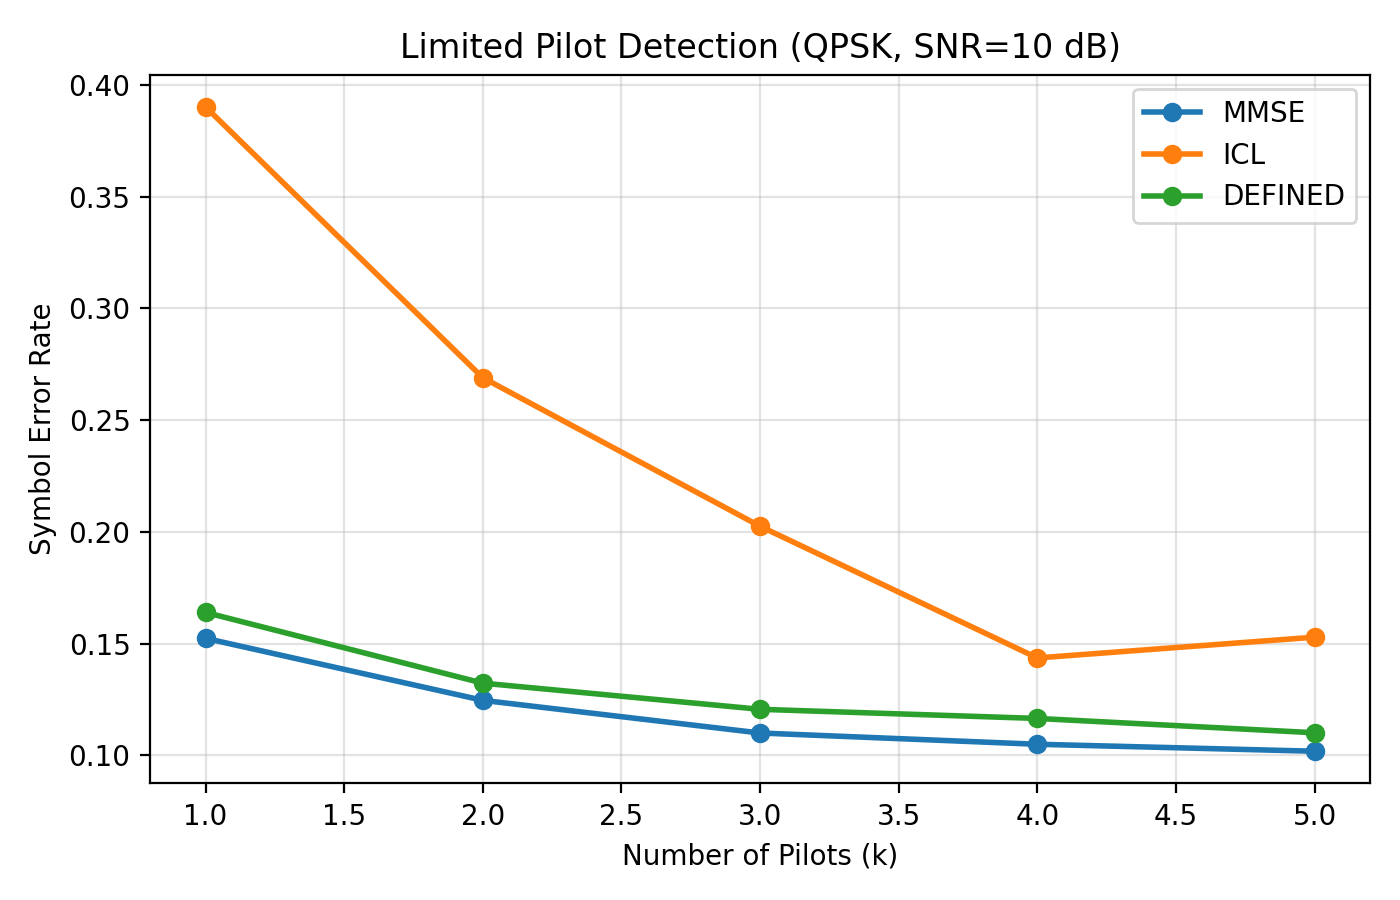
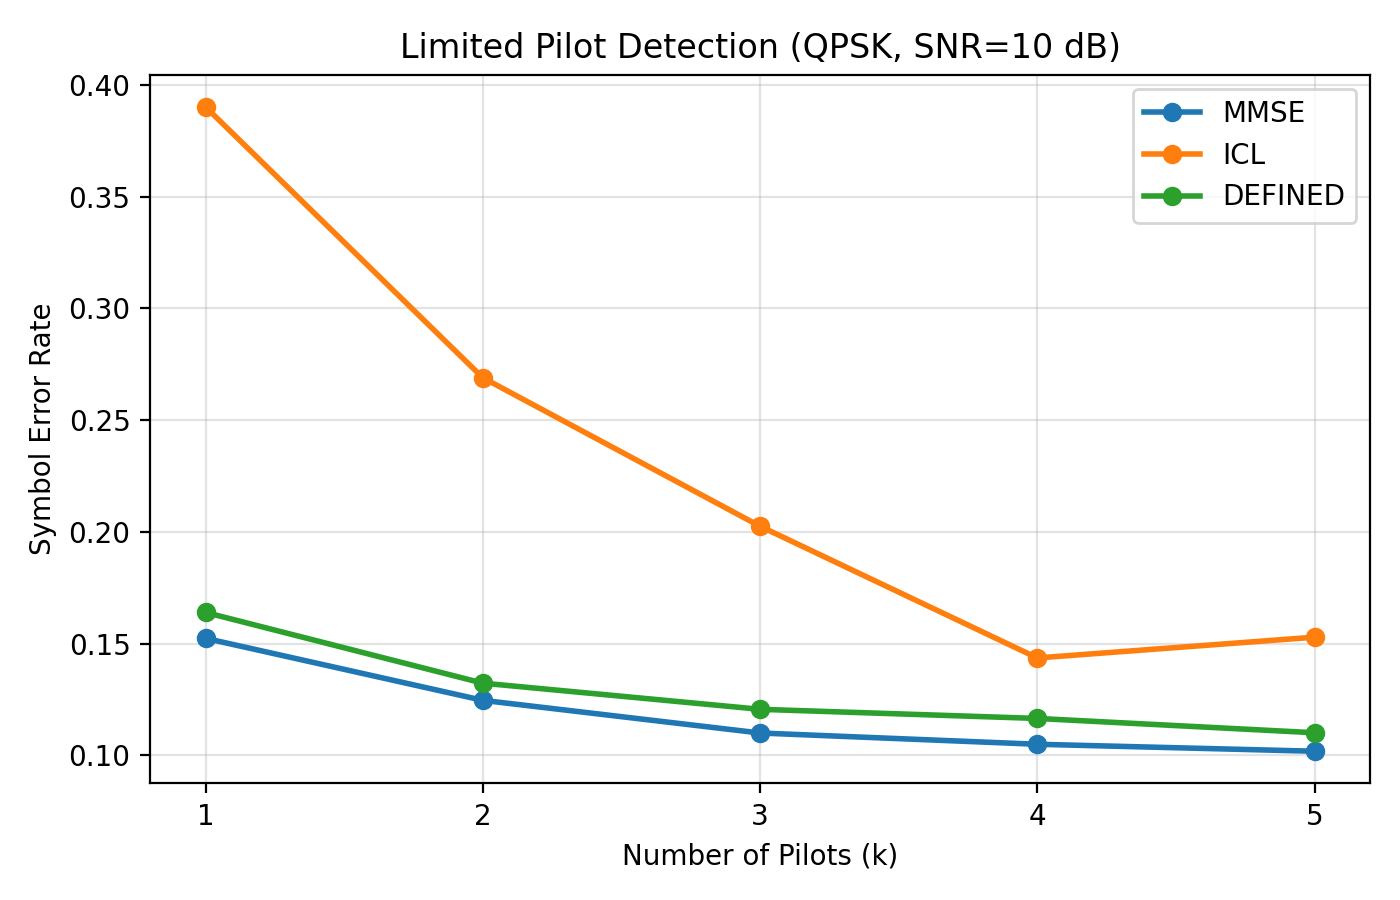
updated experiments for graphs and training script

diff --git a/experiments.py b/experiments.py
@@ -1,6 +1,7 @@
 from pathlib import Path
 
 import matplotlib.pyplot as plt
+from matplotlib.ticker import MaxNLocator
 import numpy as np
 import torch
 
@@ -124,6 +125,14 @@ def save_line_plot(x_values, series, xlabel, ylabel, title, output_name):
 
     for label, y_values in series.items():
         plt.plot(x_values, y_values, marker="o", linewidth=2, label=label)
+
+    ax = plt.gca()
+
+    integer_axis_keywords = ["Pilot", "pilot", "Context", "context"]
+
+    if any(keyword in xlabel for keyword in integer_axis_keywords):
+        ax.xaxis.set_major_locator(MaxNLocator(integer=True))
+        ax.set_xticks(x_values)
 
     plt.xlabel(xlabel)
     plt.ylabel(ylabel)
@@ -276,174 +285,6 @@ def experiment_snr_sensitivity(device):
     )
 
 
-def mmse_ser_by_position(modulation_name, num_pilots, snr_db):
-    rng = np.random.default_rng(TEST_SEED)
-    constellation = get_constellation(modulation_name)
-
-    errors = np.zeros(BLOCK_LENGTH, dtype=np.float64)
-
-    for _ in range(TEST_BLOCKS):
-        block = generate_block(
-            block_length=BLOCK_LENGTH,
-            modulation_name=modulation_name,
-            snr_db=snr_db,
-            r=rng,
-        )
-
-        x = block["transmitted_symbols"]
-        y = block["received_symbols"]
-        labels = block["transmitted_labels"]
-        noise_variance = block["noise_variance"]
-
-        h_hat = mmse_estimate(
-            x[:num_pilots],
-            y[:num_pilots],
-            noise_variance,
-        )
-
-        for t in range(num_pilots, BLOCK_LENGTH):
-            pred_label = detect_symbol(y[t], h_hat, constellation)
-            errors[t] += pred_label != labels[t]
-
-    return errors[num_pilots:] / TEST_BLOCKS
-
-
-def icl_ser_by_position(model, dataloader, num_pilots, device):
-    model.eval()
-
-    position_errors = None
-    total_blocks = 0
-
-    with torch.no_grad():
-        for y_batch, x_batch, labels_batch in dataloader:
-            y_batch = y_batch.to(device)
-            x_batch = x_batch.to(device)
-            labels_batch = labels_batch.to(device)
-
-            batch_size, block_length, _ = x_batch.shape
-
-            if position_errors is None:
-                position_errors = torch.zeros(block_length, device=device)
-
-            for t in range(num_pilots, block_length):
-                y_prompt = torch.zeros_like(y_batch)
-                x_prompt = torch.zeros_like(x_batch)
-
-                y_prompt[:, :num_pilots, :] = y_batch[:, :num_pilots, :]
-                x_prompt[:, :num_pilots, :] = x_batch[:, :num_pilots, :]
-
-                y_prompt[:, t, :] = y_batch[:, t, :]
-
-                logits = model(y_prompt, x_prompt)
-                preds = torch.argmax(logits[:, t, :], dim=-1)
-
-                position_errors[t] += (preds != labels_batch[:, t]).sum()
-
-            total_blocks += batch_size
-
-    return (position_errors[num_pilots:] / total_blocks).cpu().numpy()
-
-
-def defined_ser_by_position(model, dataloader, num_pilots, device):
-    model.eval()
-
-    position_errors = None
-    total_blocks = 0
-
-    with torch.no_grad():
-        for y_batch, x_batch, labels_batch in dataloader:
-            y_batch = y_batch.to(device)
-            x_batch = x_batch.to(device)
-            labels_batch = labels_batch.to(device)
-
-            batch_size, block_length, num_classes = x_batch.shape
-
-            if position_errors is None:
-                position_errors = torch.zeros(block_length, device=device)
-
-            x_feedback = torch.zeros_like(x_batch)
-
-            for t in range(block_length):
-                if t < num_pilots:
-                    x_feedback[:, t, :] = x_batch[:, t, :]
-                else:
-                    logits = model(y_batch, x_feedback)
-                    preds = torch.argmax(logits[:, t, :], dim=-1)
-
-                    x_feedback[:, t, :] = torch.nn.functional.one_hot(
-                        preds,
-                        num_classes=num_classes,
-                    ).float()
-
-                    position_errors[t] += (preds != labels_batch[:, t]).sum()
-
-            total_blocks += batch_size
-
-    return (position_errors[num_pilots:] / total_blocks).cpu().numpy()
-
-
-def experiment_context_position(device):
-    print("\n=== Optional: SER by Context Sequence Length ===")
-
-    modulation_name = "QPSK"
-    num_pilots = 1
-    snr_db = FIXED_SNR_DB
-
-    loader = make_test_loader(
-        modulation_name,
-        num_pilots,
-        snr_db,
-    )
-
-    icl_model = load_trained_model(
-        "icl",
-        modulation_name,
-        num_pilots,
-        device,
-    )
-
-    defined_model = load_trained_model(
-        "defined",
-        modulation_name,
-        num_pilots,
-        device,
-    )
-
-    if icl_model is None or defined_model is None:
-        return
-
-    context_lengths = list(range(num_pilots + 1, BLOCK_LENGTH + 1))
-
-    results = {
-        "MMSE": mmse_ser_by_position(
-            modulation_name,
-            num_pilots,
-            snr_db,
-        ),
-        "ICL": icl_ser_by_position(
-            icl_model,
-            loader,
-            num_pilots,
-            device,
-        ),
-        "DEFINED": defined_ser_by_position(
-            defined_model,
-            loader,
-            num_pilots,
-            device,
-        ),
-    }
-
-    save_line_plot(
-        context_lengths,
-        results,
-        xlabel="Context Sequence Length",
-        ylabel="Symbol Error Rate",
-        title=f"SER by Context Length ({modulation_name}, k={num_pilots}, SNR={snr_db} dB)",
-        output_name="optional_context_sequence_length.png",
-    )
-
-
 def main():
     PLOT_DIR.mkdir(exist_ok=True)
 
@@ -455,7 +296,6 @@ def main():
     experiment_decision_feedback_gain(pilot_results)
     experiment_modulation_complexity(device)
     experiment_snr_sensitivity(device)
-    experiment_context_position(device)
 
 
 if __name__ == "__main__":

diff --git a/train.py b/train.py
@@ -8,36 +8,6 @@ import numpy as np
 torch.manual_seed(0)
 np.random.seed(0)
 
-def icl_pilot_only_train_step(model, y_batch, x_batch, labels, optimizer, criterion, num_pilots):
-    model.train()
-
-    B, T, C = x_batch.shape
-    total_loss = 0.0
-    num_queries = 0
-
-    for t in range(num_pilots, T):
-        y_prompt = torch.zeros_like(y_batch)
-        x_prompt = torch.zeros_like(x_batch)
-
-        y_prompt[:, :num_pilots, :] = y_batch[:, :num_pilots, :]
-        x_prompt[:, :num_pilots, :] = x_batch[:, :num_pilots, :]
-        y_prompt[:, t, :] = y_batch[:, t, :]
-
-        logits = model(y_prompt, x_prompt)
-        loss_t = criterion(logits[:, t, :], labels[:, t]).mean()
-
-        total_loss += loss_t
-        num_queries += 1
-
-    loss = total_loss / num_queries
-
-    optimizer.zero_grad()
-    loss.backward()
-    optimizer.step()
-
-    return loss.item()
-
-
 def icl_train_step(model, y_batch, x_batch, labels, optimizer, criterion, num_pilots):
     model.train()
 
@@ -218,7 +188,7 @@ def train_icl_model(num_blocks=1000, block_length=31,
             x_batch = x_batch.to(device)
             batch_labels = batch_labels.to(device)
 
-            loss = icl_pilot_only_train_step(
+            loss = icl_train_step(
                 model,
                 y_batch,
                 x_batch,
